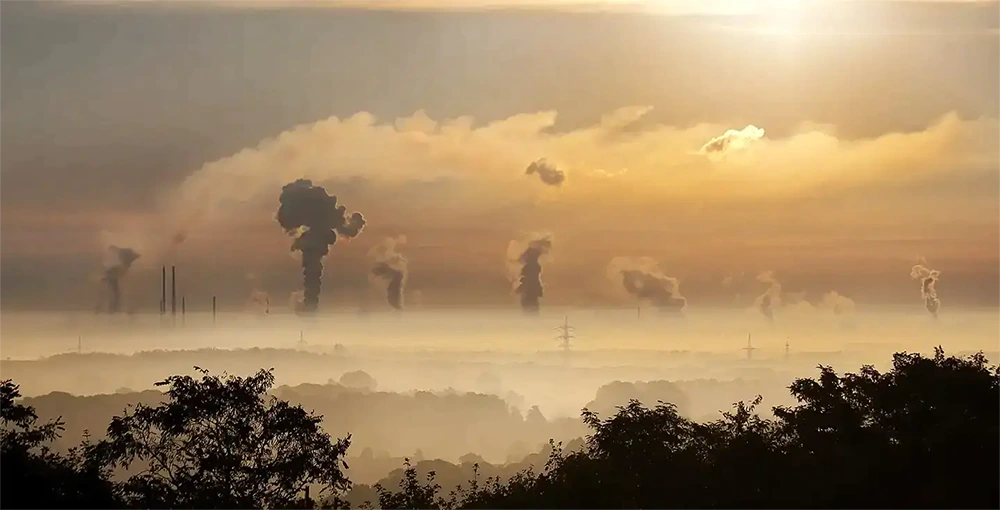
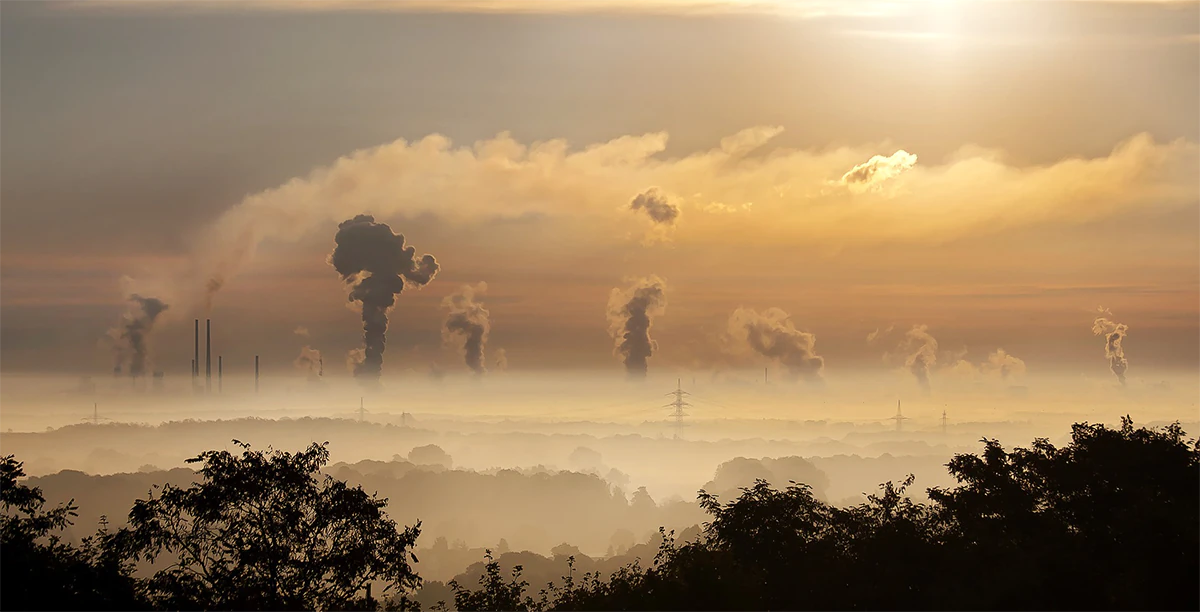
resize images

diff --git a/README.md b/README.md
@@ -126,7 +126,7 @@ To ensure that the form functions correctly, I have tested the following scenari
 - Responsibility testing on smaller devices, all the lines are clipping correctly and not expanding their container's width on any viewport size.
 - Submitting the form with missing required fields to verify that error messages are displayed.
 
-## Fixed bugs
+## Fixed Bugs
 
 - In certain viewport sizes the navbar buttons were hiding each other when they clipped into new lines.
 
@@ -138,6 +138,11 @@ To ensure that the form functions correctly, I have tested the following scenari
 
 - There were no submit confirmation page included on the website, so I added a "Thank you" page for improved user experience.
 
+## Known Issues
+
+- After running the Google Lighthouse testing on the pages, the result is still showing lower performance score, due to "not properly sized images"
+- After many resizing and conversion attempts, the images now appear sharp and their size is relatively small, but I still couldn't achieve higher score above the current value.
+  
 ## 404 Page ##
 
 The project contains a 404 error page, that follows the website's overall design, and makes it easy for the users to go back to the Home page.
